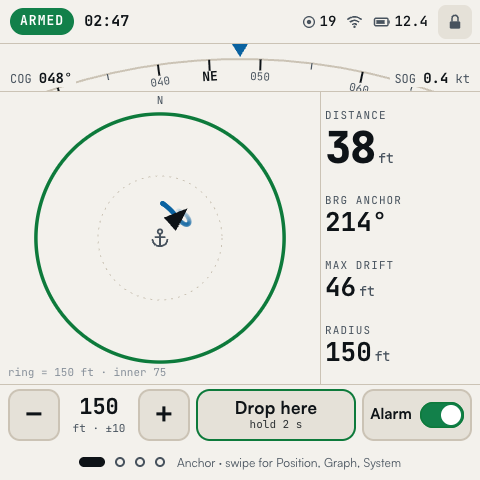
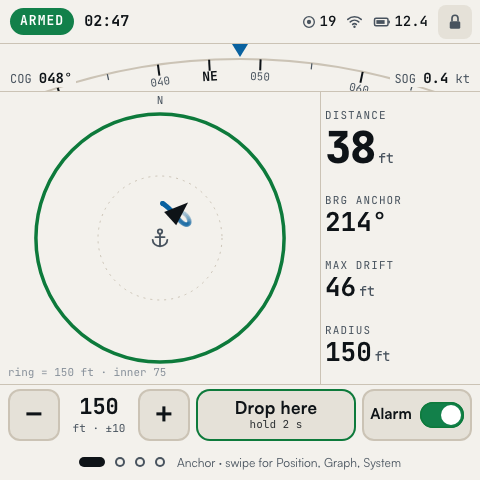
Fix touch gallery and hardware review findings
Keep plotted positions consistent with the shared scenario, fit the gallery within narrow viewports, and preserve readable night labels. Clarify charge-current, RTC backup, protected VIN testing, and RS485 ground requirements.

diff --git a/layouts/touch-lcd/app.js b/layouts/touch-lcd/app.js
@@ -237,22 +237,27 @@ function rBig(st) {
    CONCEPT 03 — SWING TRAIL
    ============================================================ */
 
-function trailPoints(key) {
+function trailPoints(st) {
   const pts = [];
   const N = 60; // 30 min at one point per 30 s
   for (let i = 0; i < N; i++) {
     const t = i / (N - 1);
     let a = 34 + 52 * Math.sin(i * 0.29) * (0.7 + 0.3 * Math.cos(i * 0.07));
     let d = 38 + 7 * Math.sin(i * 0.23 + 1) + 3 * Math.sin(i * 0.9);
-    if (key === 'alarm' && i > 38) {
+    if (st.key === 'alarm' && i > 38) {
       const u = (i - 38) / (N - 1 - 38);
       d = d + (172 - d) * Math.min(1, u * 1.15) ** 1.3;
       a = a + (56 - a) * Math.min(1, u * 1.5);
     }
-    if (key === 'nofix' && i > 47) break;
+    if (st.key === 'nofix' && i > 47) break;
     pts.push({ a, d, t });
   }
-  if (key === 'nofix') pts[pts.length - 1].d = 41;
+  if (st.key === 'nofix') {
+    pts[pts.length - 1].d = 41;
+  } else {
+    pts[pts.length - 1].a = boatAngle(st);
+    pts[pts.length - 1].d = st.dist;
+  }
   return pts;
 }
 
@@ -261,7 +266,7 @@ function trailSVG(st) {
   const isA = st.key === 'alarm', isN = st.key === 'nofix';
   // square-root radial scale: spreads out the swing near the anchor, keeps the 150 ft ring at the edge
   const R = (ft) => edge * Math.sqrt(ft / RADIUS);
-  const pts = trailPoints(st.key).map((p) => ({ ...p, xy: polar(cx, cy, R(p.d), p.a) }));
+  const pts = trailPoints(st).map((p) => ({ ...p, xy: polar(cx, cy, R(p.d), p.a) }));
   let segs = '';
   for (let i = 1; i < pts.length; i++) {
     const [x1, y1] = pts[i - 1].xy, [x2, y2] = pts[i].xy;
@@ -472,6 +477,7 @@ function chartPlot(st) {
     let a = 34 + 30 * Math.sin(i * 0.11), d = 37 + 5 * Math.sin(i * 0.17 + 0.6);
     if (isA) { const u = Math.max(0, (i - 20) / 39); d = d + (172 - d) * u ** 1.5; a = a + (56 - a) * u; }
     if (isN && i === N - 1) d = 41;
+    if (!isN && i === N - 1) { d = st.dist; a = boatAngle(st); }
     const rr = Math.min(d * k, clampR);
     const [x, y] = polar(cx, cy, rr, a);
     last = { x, y, d, a };
@@ -635,7 +641,9 @@ function fitStage() {
   if (!inner) return;
   const dev = inner.firstElementChild;
   const wrap = document.querySelector('.stage-wrap');
-  const availW = wrap.clientWidth - 16;
+  const style = getComputedStyle(wrap);
+  const horizontalPadding = Number.parseFloat(style.paddingLeft) + Number.parseFloat(style.paddingRight);
+  const availW = wrap.clientWidth - horizontalPadding;
   const availH = Math.max(320, window.innerHeight - 300);
   const w = dev.offsetWidth || 1, h = dev.offsetHeight || 1;
   const s = Math.min(1, availW / w, availH / h);

diff --git a/layouts/touch-lcd/styles.css b/layouts/touch-lcd/styles.css
@@ -134,7 +134,7 @@ body.shot { margin: 0; width: 480px; height: 480px; overflow: hidden; background
   --alarm-bg: #c9131a; --alarm-bg2: #e0262c; --on-alarm: #ffffff;
 }
 .lcd.night {
-  --bg: #000000; --panel: #160504; --ink: #d4472d; --dim: #8e2e1e; --faint: #5a1b11; --line: #2c0c07;
+  --bg: #000000; --panel: #160504; --ink: #d4472d; --dim: #cf4e38; --faint: #5a1b11; --line: #2c0c07;
   --ok: #c2622c; --warn: #e08f2e; --alarm: #ff3a26; --accent: #e25a3b; --heat: #7d2a19;
   --ok-bg: #2a0d04; --on-ok: #c2622c;
   --warn-bg: #3d2104; --on-warn: #f0a040;

diff --git a/docs/data/waveshare-esp32-s3-touch-lcd-4.md b/docs/data/waveshare-esp32-s3-touch-lcd-4.md
@@ -42,7 +42,7 @@ Nothing in this file has been measured on hardware. All schematic readings are t
 | Battery charger, V1–V3 | SW6106 power-bank IC; datasheet constant-current charge 2.5 A at 5 V input. Setting used on this board **unverified** | [4][5][6][17] |
 | Charge termination voltage, V4 | 4.2 V (ETA6098 internal preset) | [11] |
 | Battery temperature sensing | No NTC input on the V4 charger path — **inferred** from schematic | [3][11] |
-| RTC | PCF85063ATL, 32.768 kHz crystal, BAT1 header for a rechargeable cell only | [2][3] |
+| RTC | PCF85063ATL, 32.768 kHz crystal; leave BAT1 unpopulated unless a specific cell and current-limited charging path are qualified | [2][3] |
 | Buzzer | Onboard, driven by an SS8050 transistor from BEE_EN; sound level not published — **measure** | [3] |
 | RS485 | V4: SP3485EN at 3.3 V, automatic direction control; V3: MAX13487 at 5 V | [3][4] |
 | CAN | TJA1051T/3 transceiver, SM24CANB TVS, switchable 120 Ω termination | [3] |
@@ -305,7 +305,7 @@ i2c_master_transmit(ch32_dev, out, sizeof out, 50 /* ms timeout */);
   - The RS485 surge path goes to a net called EARTH, which is tied to GND by R71 0R [3].
   - NMEA 0183 listeners are expected to be opto-isolated [15]. A direct connection from this board to boat NMEA 0183 or NMEA 2000 needs an isolator. See build guide §6.
 - **Module temperature.** The N16R8 module is rated −40 to 65 °C ambient [10]. A sealed, sun-heated enclosure in the cockpit can exceed that. Keep the board below deck or shaded, and log the enclosure temperature.
-- **RTC battery.** BAT1 is charged directly from 3V3 through a Schottky diode with no current limit. Fit only a rechargeable cell (for example ML1220 class), never a CR coin cell [2][3].
+- **RTC battery.** BAT1 is charged directly from 3V3 through a Schottky diode with no current limit. Leave it unpopulated unless a specific rechargeable cell and an appropriate current-limiting charge circuit are qualified. A Schottky diode alone does not limit charge current; do not connect a coin cell directly to this header [2][3].
 - **Bonded screen.** Do not pry the screen off the board [2].
 - **IPS in sunlight.** No brightness figure is published [1][2]. Treat direct-sun readability as unknown until measured.
 - **USB-C VBUS also feeds USB0_5V**, and from there the charger and the 5 V rail [3]. Bench USB power and VIN can be present together through the ideal-diode OR. A powered USB cable still powers the GNSS through I2C_VCC.
@@ -314,7 +314,7 @@ i2c_master_transmit(ch32_dev, out, sizeof out, 50 /* ms timeout */);
 
 1. Read the revision under the screen line. Photograph both sides of the board. Confirm the CH32V003 (V4) or the TCA9554/SW6106 (V1–V3) [2].
 2. Power from USB-C only. Flash a Waveshare V4 demo. Confirm display, touch and an I²C scan (expect 0x24, 0x51, 0x5D or 0x14 on V4) [7][8].
-3. Bench supply on VIN at 7, 12, 14.8, 16 and 36 V with a current limit. Record the current with the backlight at full, at night level and off, with Wi-Fi idle, and during a Wi-Fi scan.
+3. With the external SMBJ18A disconnected, a current-limited bench supply may qualify the bare board at 36 V. Refit the TVS before testing the protected assembly. Test that assembly at 7, 12, 14.8 and 16 V only; do not apply steady 36 V with the SMBJ18A fitted because its breakdown starts at 20 V. Record current with the backlight at full, at night level and off, with Wi-Fi idle and during a Wi-Fi scan [marine-12v-direct-input-protection.md](marine-12v-direct-input-protection.md) §8.
 4. Measure the XL1509 output (≈ 5.2 V expected, **calculated**) and the 3V3 rail under load.
 5. Fit a protected 1S pack (polarity checked). Measure the charge current at 3.6 V cell voltage, the VIN current while charging, and the board temperature after 30 minutes.
 6. Assert SYS_EN, then remove VIN while logging the 3V3 rail and the ESP32 reset reason. Repeat 20 times. Then repeat without SYS_EN to confirm the board shuts down.

diff --git a/docs/data/README.md b/docs/data/README.md
@@ -61,7 +61,8 @@ The controller, display, GNSS and power conflicts formerly listed here have been
 - **ESP32 edition — VIN to battery hand-off:** on V4 the battery only reaches the 5 V rail while SYS_EN (CH32 EXIO5) or the PWR key holds the Q4 latch on. Measure the hand-off gap and check for brown-out resets with firmware asserting SYS_EN. See [waveshare-esp32-s3-touch-lcd-4.md](waveshare-esp32-s3-touch-lcd-4.md) §4.1.
 - **ESP32 edition — VIN rating:** the silkscreen says 7–36 V, but the V4 schematic and Waveshare's V4 reference say 5–36 V. The build guide and the component notes plan for 7–36 V until Waveshare confirms otherwise.
 - **ESP32 edition — onboard input TVS:** the SMAJ40CA does not clamp below 40 V, which is above the 36 V rating. The external TVS, fuse and load-dump review in [marine-12v-direct-input-protection.md](marine-12v-direct-input-protection.md) are required, not optional.
-- **ESP32 edition — charge current:** the V4 ETA6098 is set to 2 A fast charge, with no thermistor. The 4400 mAh Adafruit example pack is limited to 1 A charge. Choose a pack rated for ≥ 2 A charge, or rework R_ISET, and measure the real current. On V1–V3, confirm the SW6106 BSET value (4.2 V vs 4.35 V).
+- **ESP32 edition — charge current:** the V4 ETA6098 is set to 2 A fast charge, with no thermistor. The 4400 mAh Adafruit example pack is limited to 1 A charge. Choose a pack rated for ≥ 2 A charge, or rework R_ISET only to a setting confirmed at or below the selected pack's limit; 150 kΩ gives 1.2 A and is unsuitable for the 1 A pack. Measure the real current. On V1–V3, confirm the SW6106 BSET value (4.2 V vs 4.35 V).
+- **ESP32 edition — RTC backup battery:** the BAT1 header is charged from 3.3 V through a Schottky diode with no current limit. Leave it unpopulated until a specific rechargeable cell and current-limited charging circuit are qualified; do not connect a coin cell directly. See [waveshare-esp32-s3-touch-lcd-4.md](waveshare-esp32-s3-touch-lcd-4.md).
 - **ESP32 edition — DO1:** the wiki lists a "DO1" expander output, but none of the four schematics routes it to the terminal, and V4 has no DO1 net. No external alarm output exists without an added I²C device.
 - **ESP32 edition — GNSS interface:** the NEO-F10N has no I²C, so it connects through a TTL-to-RS485 converter. The direction of the converter's TTL pins, its turn-round time and its 3.3 V current are unverified. This applies to both the (B) and the optional (C); the (C) also has an unclear terminator default (solder jumper, or a switch per one wiki note).
 - **ESP32 edition — boot-time UART output:** the ESP32-S3 UART0 default TX pin (GPIO43) is the RS485 receiver output on this board. Check boot behaviour with the console on USB-Serial-JTAG.

diff --git a/docs/data/lipo-1s-protected-battery.md b/docs/data/lipo-1s-protected-battery.md
@@ -161,7 +161,7 @@ In the planned [ESP32-S3 touch edition](../esp32_s3_touch_lcd_4_anchor_alarm_bui
 - **Polarity.** PH2.0 and JST-PH leads from different vendors come in both polarities [4]. Meter the plug against the board silkscreen before connecting.
 - **Charge-current rating.** On V4 the pack must accept 2 A [9]. With the ≤ 0.5 C guidance in §2 [4], that means a cell of **at least 4 Ah**. Adafruit's 4400 mAh pack is limited to 1 A charge [4], so it does **not** meet this as stated. Options:
   1. Choose a cell whose datasheet allows ≥ 2 A charge (for example a 1S2P 18650 pack of ≥ 5 Ah with a PCM rated above 2 A). This is an example to evaluate, not a selected part.
-  2. Rework R_ISET to a higher value. The datasheet gives 1.2 A at 150 kΩ [9]. This is a board modification and is **untested**.
+  2. Rework R_ISET only if the resulting charge current is configured and measured at or below the selected pack's documented limit. The datasheet gives 1.2 A at 150 kΩ [9], so that setting still exceeds the 4400 mAh pack's 1 A limit. This is a board modification and is **untested**.
   3. Put a small series resistance or current-limited supply in the charge path. Not recommended, because the same path feeds the boost.
 - **Connector current.** A PH2.0 connector is a small connector carrying up to 2 A of charge current plus the boost input current on battery. Its current rating is not published on the Waveshare pages — **unverified**. Check the connector and lead temperature during the first full-current charge.
 - **No thermistor.** The board cannot stop charging on pack temperature. Mount the pack away from the board's regulators, keep it below deck, and follow §7's marine safety notes [5].

diff --git a/docs/data/waveshare-ttl-to-rs485-b.md b/docs/data/waveshare-ttl-to-rs485-b.md
@@ -55,7 +55,7 @@ Planned wiring. Not built.
 | Breakout RX (J2-5) | Converter TTL data **output** | Board → GNSS, used only for occasional UBX writes |
 | Converter RS485 A+ | Board terminal 3 (A) | Twisted pair |
 | Converter RS485 B− | Board terminal 4 (B) | |
-| Converter RS485 GND | Board terminal 2 or 8 (GND) | Optional reference. Same ground anyway |
+| Converter RS485 GND | Board terminal 2 or 8 (GND) | Required reference: the board's SP3485 is non-isolated, so bond the converter's isolated RS485 side to board ground to keep A/B within its common-mode range [sparkfun-neo-f10n-gnss.md](sparkfun-neo-f10n-gnss.md) §10.2 |
 | Converter 120R switch | On (default) | Starting point. Board SW1 RS485 terminator off. See §7 |
 
 ```mermaid
